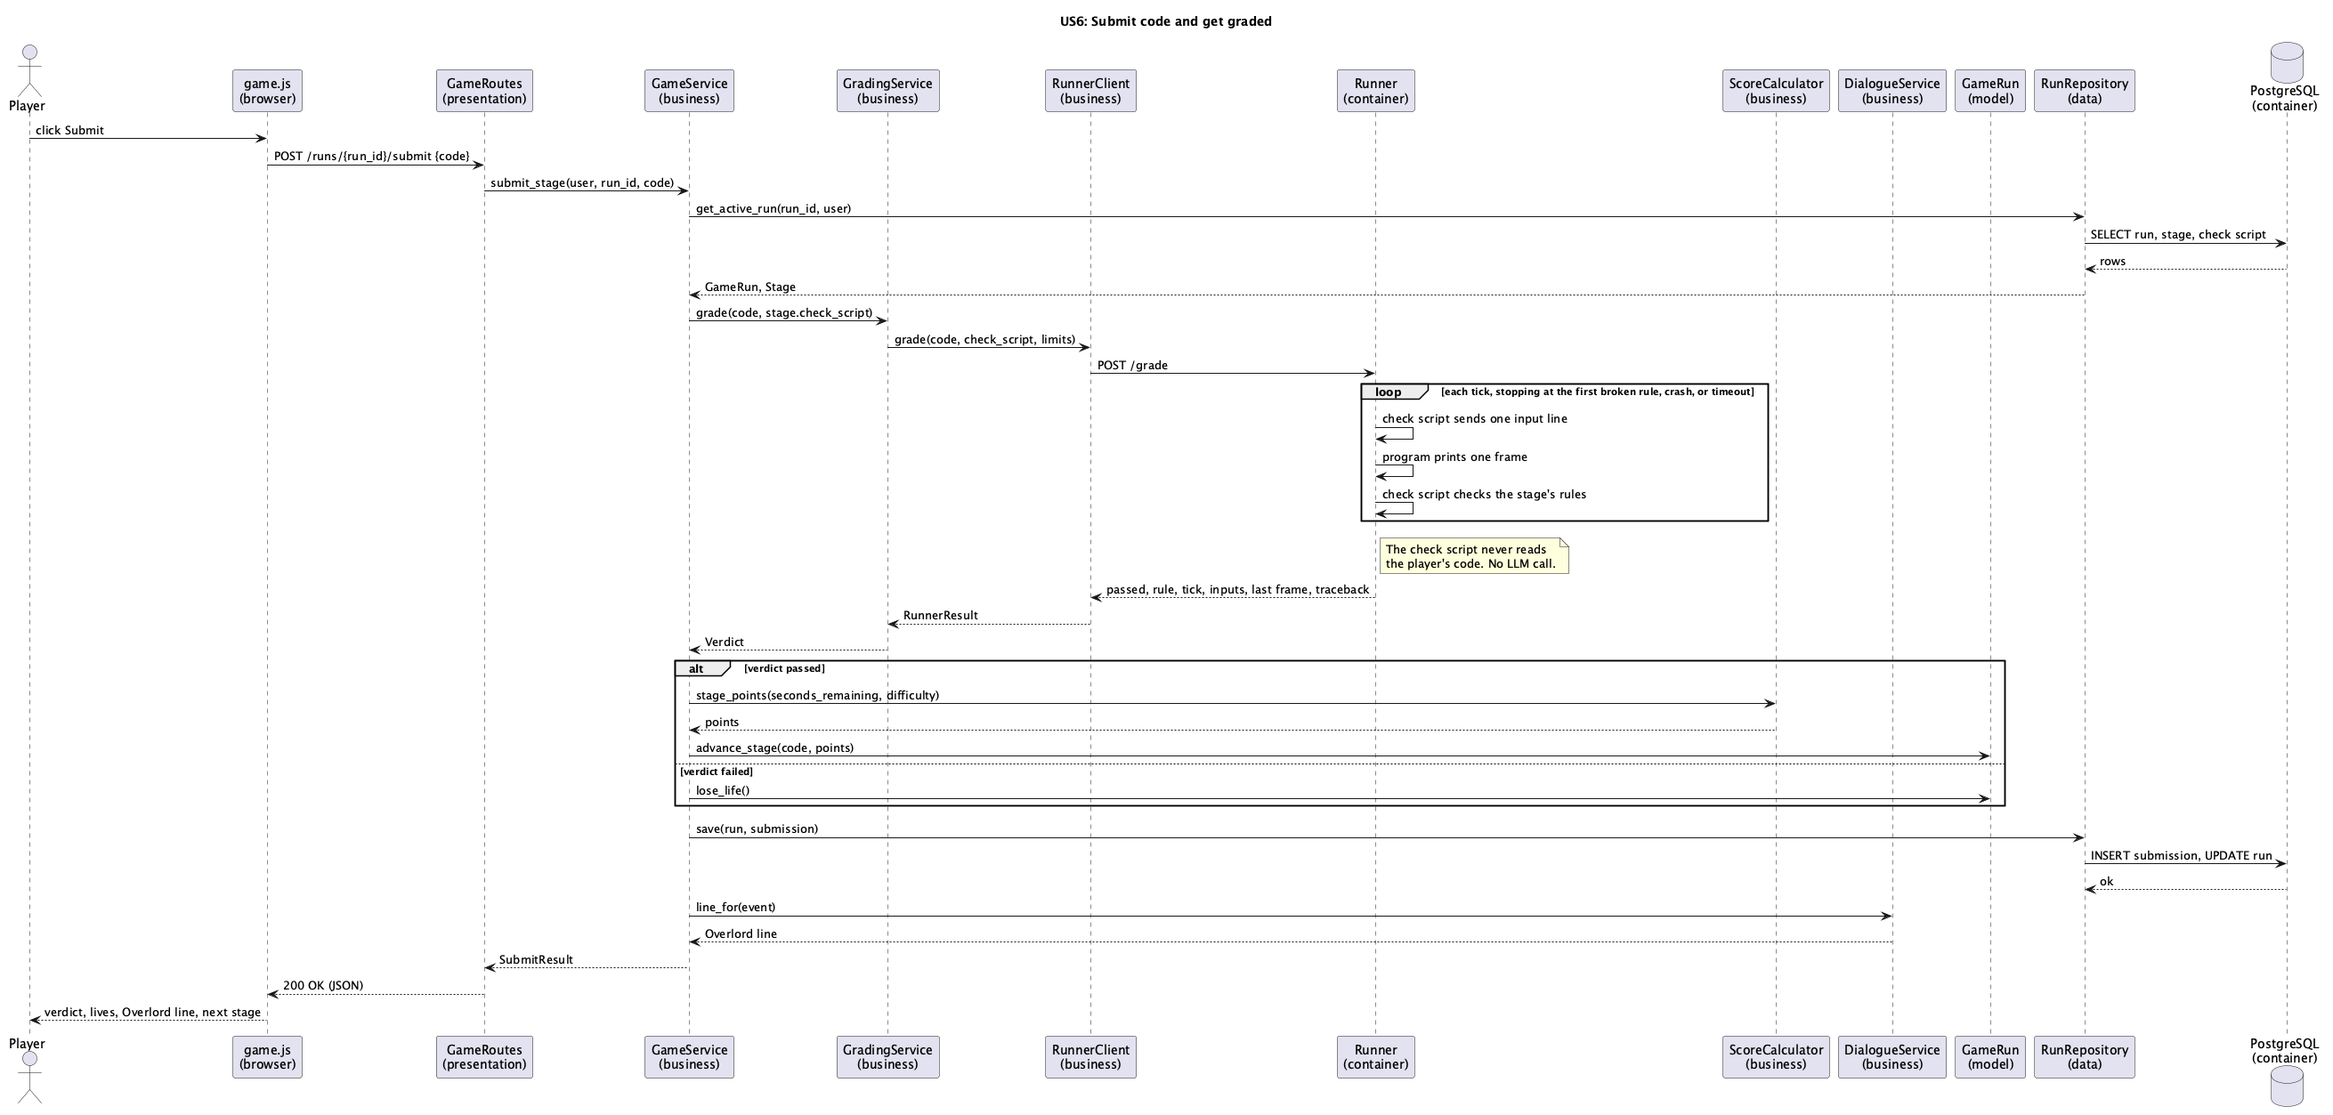
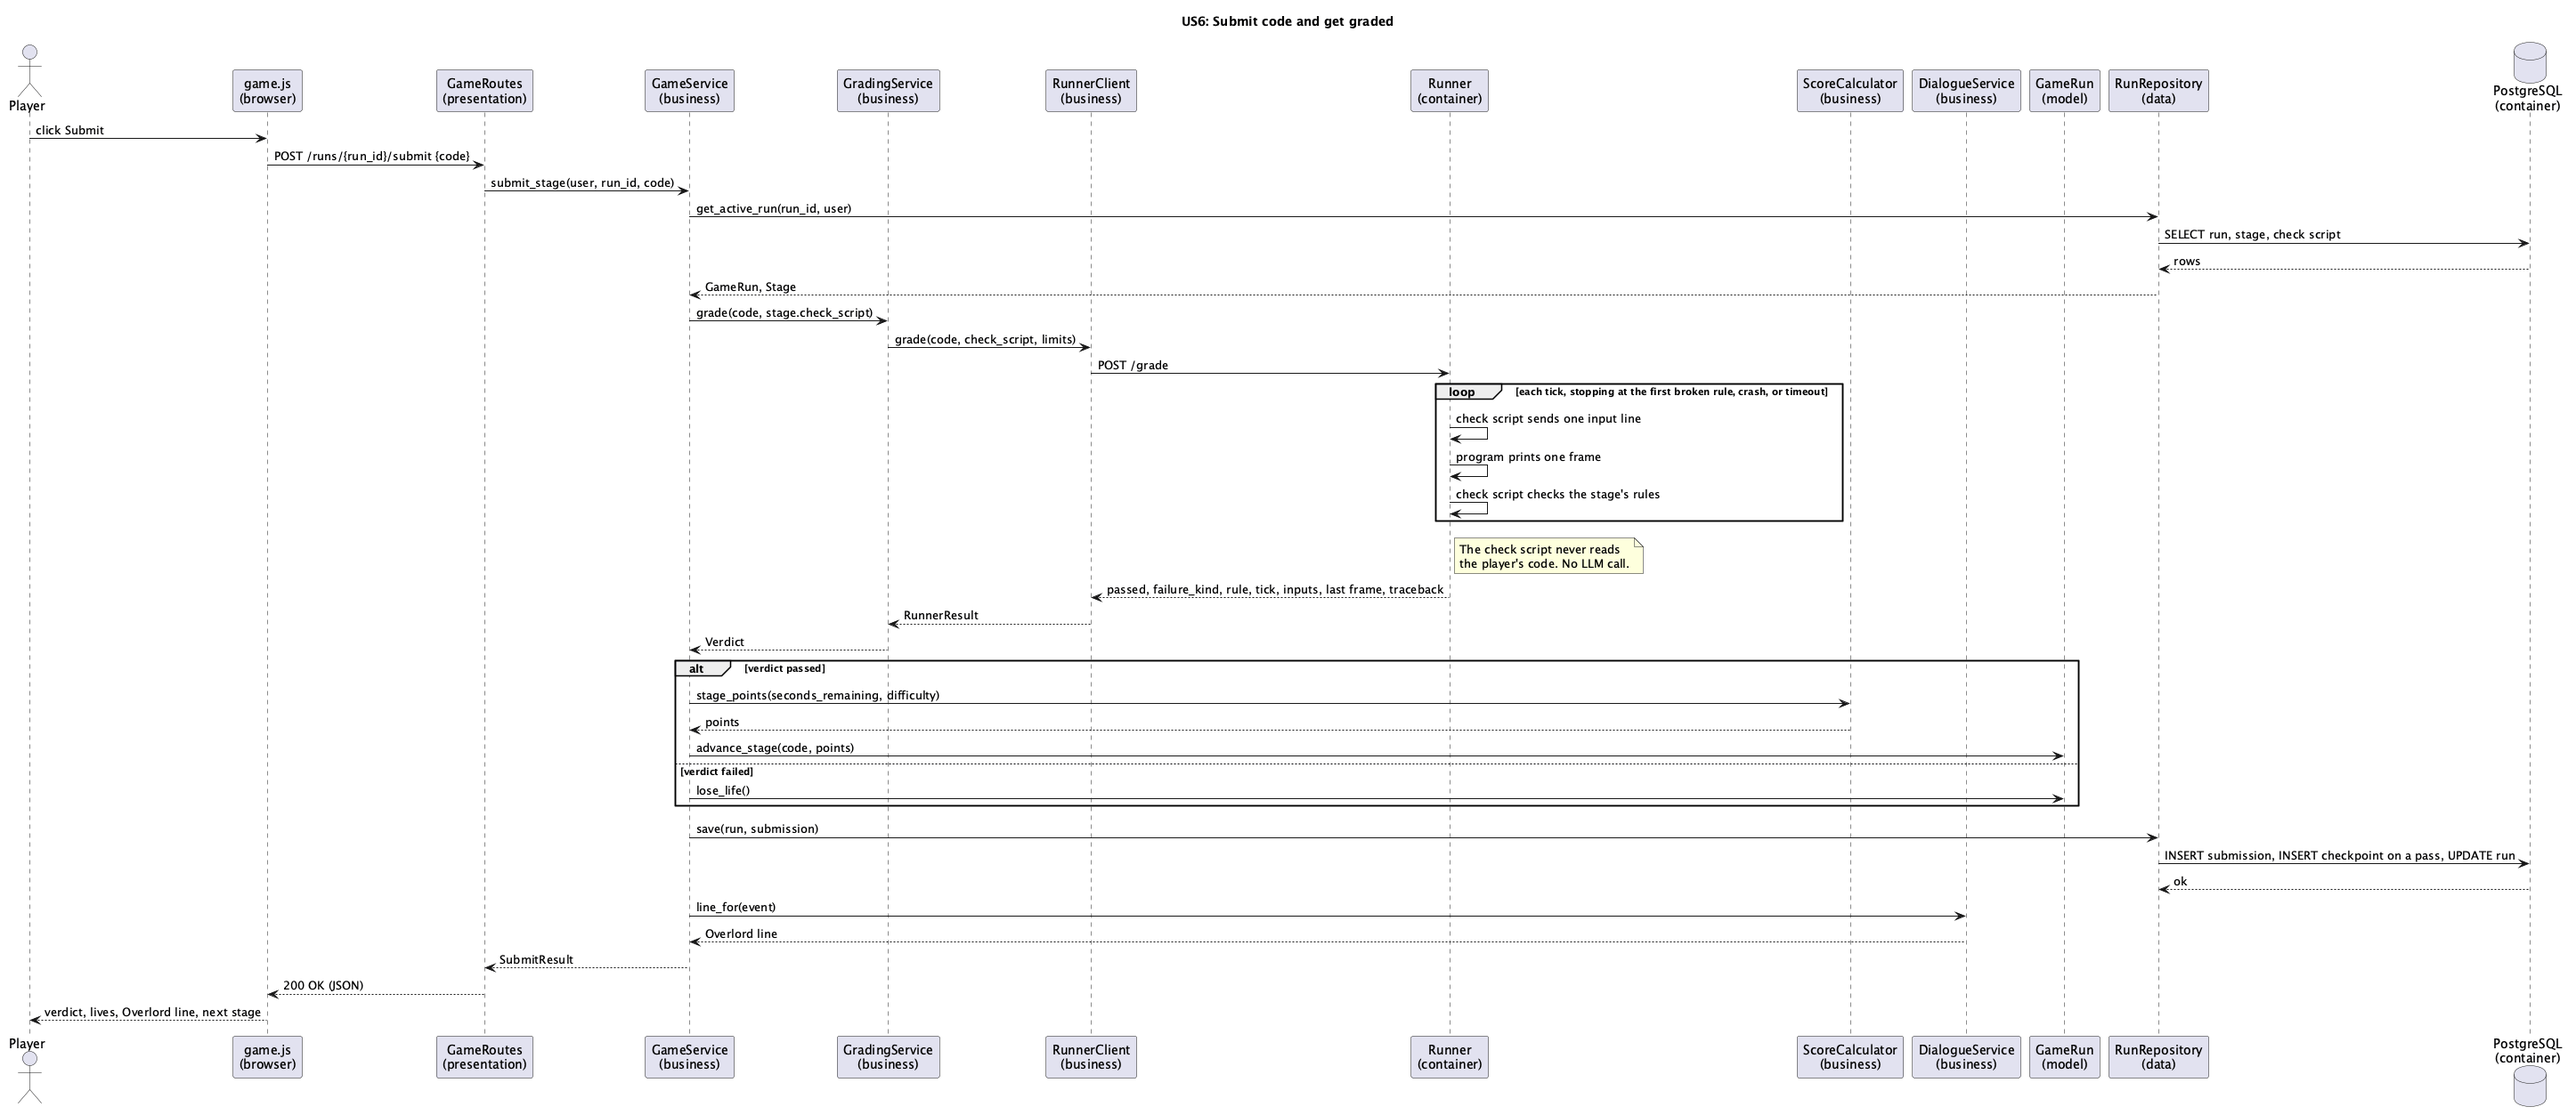
docs: fix self-review findings on grading, runner, tests, and UML (#25)
Console and prompt rules, runner limits per tick and run, the
white-box test target, US11 validation criteria, branch naming (#11),
Hard+ failure detail, US4 editor wording, and the class and US6
sequence diagrams now match check-script grading.

diff --git a/docs/roadmap.md b/docs/roadmap.md
@@ -96,8 +96,8 @@ Every graded item, and where this plan covers it.
 Judge0's sandbox needs privileged containers and has historically required cgroup v1, which clashes with Docker Desktop and Codespaces — and with whatever machine the grader uses. Our runner is a small standard-library Python service:
 
 * Separate container on an **internal-only Docker network** (no internet), reachable only by the web app; **no secrets in its environment**.
-* Each test runs as `python -I main.py` as an **unprivileged user** in a fresh temp directory, in its own process group (killed afterward).
-* `setrlimit` caps on CPU seconds, memory, file size, and process count; a wall-clock timeout per test; output capped at 64 KB.
+* Each submission runs the player's program once as `python -I main.py` as an **unprivileged user** in a fresh temp directory, in its own process group (killed afterward), driven by the stage's check script.
+* `setrlimit` caps on CPU seconds, memory, file size, and process count; a wall-clock timeout per tick (~1 s) and per run (~10 s); output capped at 64 KB.
 * Read-only root filesystem, `tmpfs` scratch, all capabilities dropped, `no-new-privileges`, PID limit.
 * Verified by a **hostile-code test suite** (infinite loop, fork bomb, memory bomb, network access, file writes, env-var reads, huge output).
 
@@ -290,7 +290,7 @@ Author(s): Jane Doe, John Smith
 
 | Kind | Target | Why it fits |
 | :--- | :--- | :--- |
-| **White-box** | `GradingService` output normalization and verdict logic | Tests are designed from the code's branches: CRLF line endings, trailing spaces, trailing blank lines, timeout path, runtime-error path, syntax-error path, first-failure stop — aiming for 100% branch coverage of that module |
+| **White-box** | `GradingService` verdict logic | Tests are designed from the code's branches: pass, broken rule, crash with traceback, per-tick timeout, whole-run timeout, broken check script, runner unavailable, first-failure stop — aiming for 100% branch coverage of that module |
 | **Black-box** | `ScoreCalculator` | Tests are derived only from the scoring rules in game-design.md §3.3 using equivalence classes and boundary values (0 seconds left, 0 lives, failed campaign, each multiplier) without looking at the implementation |
 
 * Mark them with pytest markers (`@pytest.mark.whitebox`, `@pytest.mark.blackbox`) and a docstring stating **purpose, functionality tested, and expected outcome**.
@@ -374,7 +374,7 @@ Planned when the code exists: `campaign-authoring.md`, `overlord-voice.md`, `sec
 ### 9.2 Branches
 * **`main`** — stable releases only. **Protected:** PR required, **≥ 1 approval**, CI must pass, no direct pushes.
 * **`dev`** — ongoing development. Protected: PR required, ≥ 1 approval, CI must pass.
-* **Feature branches** from `dev`, named with the story: `feature/US6-runner-sandbox`, `fix/US7-checkpoint-restore`, `chore/sprint0-devcontainer`.
+* **Work branches** from `dev`, named `<type>/<issue#>-<short-name>` ([workflow](../.agents/workflow.md)): `feature/14-US6-runner-sandbox`, `fix/21-checkpoint-restore`, `docs/25-consolidate-docs`.
 
 ### 9.3 Merging & Releases
 * Feature → `dev` by PR (small PRs, ideally < 400 lines).
@@ -571,7 +571,7 @@ PlantUML sources live in `uml/` (as in the course template) and are exported to 
 | D3 | Web framework and frontend | **Decided (2026-11-17, game page updated 2026-11-18):** Flask + Jinja templates, with the game page as native ES modules (no build step) and Alpine.js optional. React/TypeScript/Tailwind was considered and rejected to keep one toolchain and keep the graded code in Python |
 | D4 | Public hosting | **Optional** — grading runs via Docker. Only needed for a live class demo; keep it off the Azure credit |
 | D5 | Bonus-life rule (US13) | First-submit clear with ≥ 50% of the timer left |
-| D6 | Failure detail on Hard+ (US10) | Test number + traceback only |
+| D6 | Failure detail on Hard+ (US10) | The broken rule only, plus the traceback on a crash |
 | D7 | Player's code after a failed submit (US7) | Keep their edits + "Restore checkpoint" button (instead of auto-wiping). Also decide if the timer resets after a failure |
 | D8 | Player devices | Desktop browsers only |
 | D9 | Team capacity (§13) | Agree on a number and justify it in the README |

diff --git a/README.md b/README.md
@@ -222,7 +222,7 @@ As a player, I want new campaigns written by the AI Overlord so that I can keep 
 **Acceptance Criteria**
 
 1. **Given that** the LLM owner runs the generation command and budget remains, **when** it finishes, **then** campaigns that passed the validation pipeline are added to the pool, and rejected campaigns are logged with a reason.
-2. **Given that** a campaign was generated, **when** it is validated, **then** it is rejected unless the LLM's reference program **passes** every stage's checks (on repeated runs) and a deliberately broken program, including the previous stage's reference, **fails** them.
+2. **Given that** a campaign was generated, **when** it is validated, **then** it is rejected unless, for every stage, the LLM's reference program **passes** the checks on repeated runs, an independently written solver program **passes** them, and both a deliberately broken program and the previous stage's reference **fail** them.
 3. **Given that** generated campaigns exist for a tier, **when** a player starts a run on that tier, **then** a generated campaign can be assigned like a hand-written one.
 4. **Given that** any live LLM call is made, **when** it completes, **then** its token usage and estimated cost are recorded, and further calls are refused once the budget cap is reached.
 
@@ -323,7 +323,7 @@ Sprint goals, dependency checks, and stretch order: [roadmap §13](docs/roadmap.
 
 ## Sequence Diagram
 
-**US6: The Overlord Plays My Program** (diagram shows the earlier output-comparison design; to be redrawn), through all three layers and the runner container.
+**US6: The Overlord Plays My Program**, through all three layers and the runner container.
 
 ![US6 sequence diagram](uml/sequence-US6.png)
 
@@ -352,9 +352,9 @@ _Added after the first Sprint 1 daily scrum._
 
 ## Testing
 
-### White-Box Test: Grading Output Normalization
+### White-Box Test: Grading Verdict Logic
 
-- **Tests:** `GradingService` normalization and verdict logic, designed from its branches (CRLF, trailing spaces and blank lines, timeout, runtime error, syntax error, stop at first failure).
+- **Tests:** `GradingService` verdict logic, designed from its branches (pass, broken rule, crash with traceback, per-tick timeout, whole-run timeout, broken check script, runner unavailable, stop at first failure).
 - **Location:** `tests/unit/test_grading_service.py` (`@pytest.mark.whitebox`)
 - **Outcome:** _TBD_
 

diff --git a/docs/design.md b/docs/design.md
@@ -100,7 +100,7 @@ The look is "vintage 3D": hard offset shadows, bevels, and a perspective floor, 
 
 **The feed** is one scrolling text box. It's how the Overlord talks.
 - **Layout (decided 2026-11-18):** the Overlord window has two parts. The Overlord's stage is on top, with room beside him for his follow-up lines (US10). The prompt is pinned below and is always visible; when space runs short, the stage shrinks first, then the prompt scrolls.
-- The **first message is the stage prompt**: plain sentences that state exactly what to read and what to print. How worked examples appear on the game page is undecided; for now the page hides the prompt's trailing `Example N` blocks. Exact values (`0–9`, `w`, `4` then `w` prints `3`) are set in mono cyan.
+- The **first message is the stage prompt**: plain sentences that state the feature, the controls, the characters on screen, and the rules the Overlord will check. Exact values (`q`, `a`, `O`, `20x20`) are set in mono cyan.
 - New messages are added at the bottom. Older ones scroll up and fade out at the top edge.
 - No sender names, timestamps, or avatars on messages. It's obviously the Overlord.
 
@@ -133,7 +133,7 @@ What the Overlord *says* at each level comes from the dialogue file (US10).
 | **Top bar** (decided 2026-11-18) | Wordmark with the **difficulty badge** beside it: a neon parallelogram in the tier's `--tier-*` color; Impossible's rim cycles every tier color. Center: the timer (a static `00:00` until US8), with lives beside it as glowing diamonds (dim outline when lost). The **stage bar** runs along the bottom edge, one cell per stage: done is dim cyan, current is bright cyan, upcoming is dark. No `02/04` text; the bar's `aria-label` carries it. The heat bar (US8) drains the current stage's cell. |
 | **Feed** | See §6. A floating window with a magenta shadow. |
 | **Editor** | A floating window with a cyan shadow. The tab shows only the file name. The current line gets a 2 px cyan left edge. |
-| **Console** | One row per example: `PASS`/`FAIL`, the example number, the output. Tracebacks in full on failure. Nothing else. |
+| **Console** | Shows each frame the program prints while it runs (US5). Tracebacks in full on a crash. Nothing else. |
 | **Buttons** | Run (secondary) and Submit (primary), bottom right. Restore checkpoint is an icon button, bottom left, with `aria-label`. |
 
 ## 9. Never

diff --git a/scrum/sprint_1/issues/US4.md b/scrum/sprint_1/issues/US4.md
@@ -10,10 +10,10 @@ This is the screen players spend the whole game on. Like a human prompting an AI
 **Out:** follow-up Overlord messages and escalation (US10), Play My Program (US5), Submit and grading (US6), removing sample data from the campaign schema and stage data (US6), checkpoints and preloading the last passing code (US7), the timer and heat bar (US8), avatar states (US10, US12).
 
 ## Acceptance Criteria
-1. **[HIGH]** Given that a stage is active, when the game page loads, then I see the Overlord's prompt as the first message in its feed (stating the feature, the controls, and the rules the Overlord will check), my lives, and an empty Python editor.
+1. **[HIGH]** Given that a stage is active, when the game page loads, then I see the Overlord's prompt as the first message in its feed (stating the feature, the controls, and the rules the Overlord will check), my lives, and a Python editor that is empty on Stage 1.
 2. **[MED]** Given that I am on Stage 2 or later, when the page loads, then the editor is preloaded with my last passing code. *This can't be fully tested until US7 (checkpoints) lands in Sprint 2.*
 3. **[HIGH]** Given that I have typed code in the editor, when I refresh the page, then my in-progress code is restored.
-4. **[HIGH] (proposed)** Given that I view the game page, when I inspect the page source or network traffic, then no check script is present. Only the prompt reaches the browser.
+4. **[HIGH] (proposed)** Given that I view the game page, when I inspect the page source or network traffic, then the stage's check script is not present. It stays on the server.
 5. **[MED] (proposed)** Given that the run isn't mine or doesn't exist, when I open `/play/<run_id>`, then I get a 404.
 6. **[LOW] (proposed)** How code is saved (browser storage or server autosave), and the fallback if Monaco can't load.
 

diff --git a/docs/game-design.md b/docs/game-design.md
@@ -144,7 +144,7 @@ AI-generated campaigns are **required story US11**. Hand-written seed campaigns 
 | Dev team | Generation prompt template, campaign JSON schema, check-script helpers (send input, read frame, find a character), validator | Once |
 | LLM (generator) | Whole campaign: every stage's prompt, check script, reference program, and one deliberately broken program per stage | Offline, filling the pool |
 | LLM (solver) | One more program per stage, seeing **only** what the player sees | Offline, during validation |
-| Our code (sandbox) | Runs every program against every check script; accepts or rejects | Offline, during validation |
+| Our code (sandbox) | Runs each stage's programs against that stage's check script and accepts or rejects the campaign (§4.4) | Offline, during validation |
 | Player | One program per stage that follows the prompt | During the game |
 | Check script (sandbox) | Plays the player's program and reports the first broken rule | On Submit |
 

diff --git a/.agents/pull-requests.md b/.agents/pull-requests.md
@@ -85,7 +85,7 @@ is ready, send any requests still pending.
 | ✅ Good | ❌ Bad |
 | :--- | :--- |
 | Registered `tester1` with an 8-char password in Chrome and landed on the home screen logged in. | Tested it, works. |
-| Submitted a solution with a trailing newline on Stage 2 and got "All tests passed" with lives unchanged. | Ran the tests. All pass. Also checked the UI and it looks good. Fixed a typo too. |
+| Submitted a Pong Stage 2 program whose right paddle ignores `l`, and got a fail verdict naming that rule, with one life lost. | Ran the tests. All pass. Also checked the UI and it looks good. Fixed a typo too. |
 | Ran `make validate-campaigns` on the new Easy campaign and it reported 0 errors. | See screenshot. |
 
 Passing automated tests don't count as manual testing. The point is that

diff --git a/scrum/sprint_1/issues-draft.md b/scrum/sprint_1/issues-draft.md
@@ -1,6 +1,6 @@
 # Sprint 1 Issues: Draft for Critique
 
-**Sprint 1:** 11/18–11/22 · **Goal:** a player can register, log in, start a run, see a stage, and run sample tests in the browser. · **Release:** `v1` on 11/22.
+**Sprint 1:** 11/18–11/22 · **Goal:** a player can register, log in, start a run, see a stage, and play their program in the browser. · **Release:** `v1` on 11/22.
 
 **How to read this:**
 - There are 5 **story** issues (US1–US5), one file each in [issues/](issues/). Each one has the story points.

diff --git a/.agents/testing.md b/.agents/testing.md
@@ -35,8 +35,8 @@
 
 ## Required labeled tests (course requirement; neither may test auth)
 
-- **White-box:** `GradingService` normalization and verdict logic,
-  `@pytest.mark.whitebox`.
+- **White-box:** `GradingService` verdict logic (pass, broken rule,
+  crash, timeouts, first-failure stop), `@pytest.mark.whitebox`.
 - **Black-box:** `ScoreCalculator` against the scoring rules in
   `docs/game-design.md` §3.3,
   `@pytest.mark.blackbox`.
